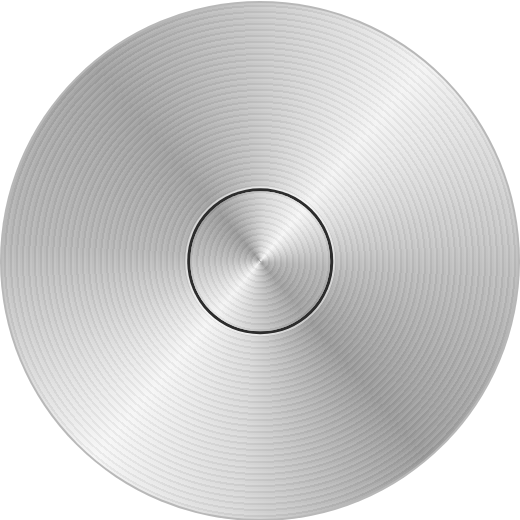
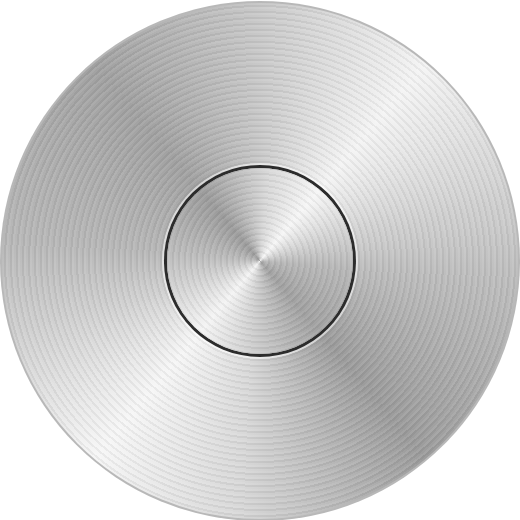
Versión iPod: botón central al 36%
Claude-Session: https://claude.ai/code/session_01KUhywioFSNA2FCbFv9yKMq

diff --git a/i/index.html b/i/index.html
@@ -27,7 +27,7 @@ html,body{margin:0;padding:0;height:100%;background:#111;overflow:hidden;-webkit
 .fl svg{position:absolute;left:10px;top:10px;width:20px;height:20px}
 #ant{left:19px}
 #sig{right:19px}
-#centro{position:absolute;left:96px;top:96px;width:68px;height:68px;border-radius:34px}
+#centro{position:absolute;left:85px;top:85px;width:90px;height:90px;border-radius:45px}
 #centro.press{background:rgba(0,0,0,.08)}
 .fade{opacity:0}
 .lbl{-webkit-transition:opacity .2s}
